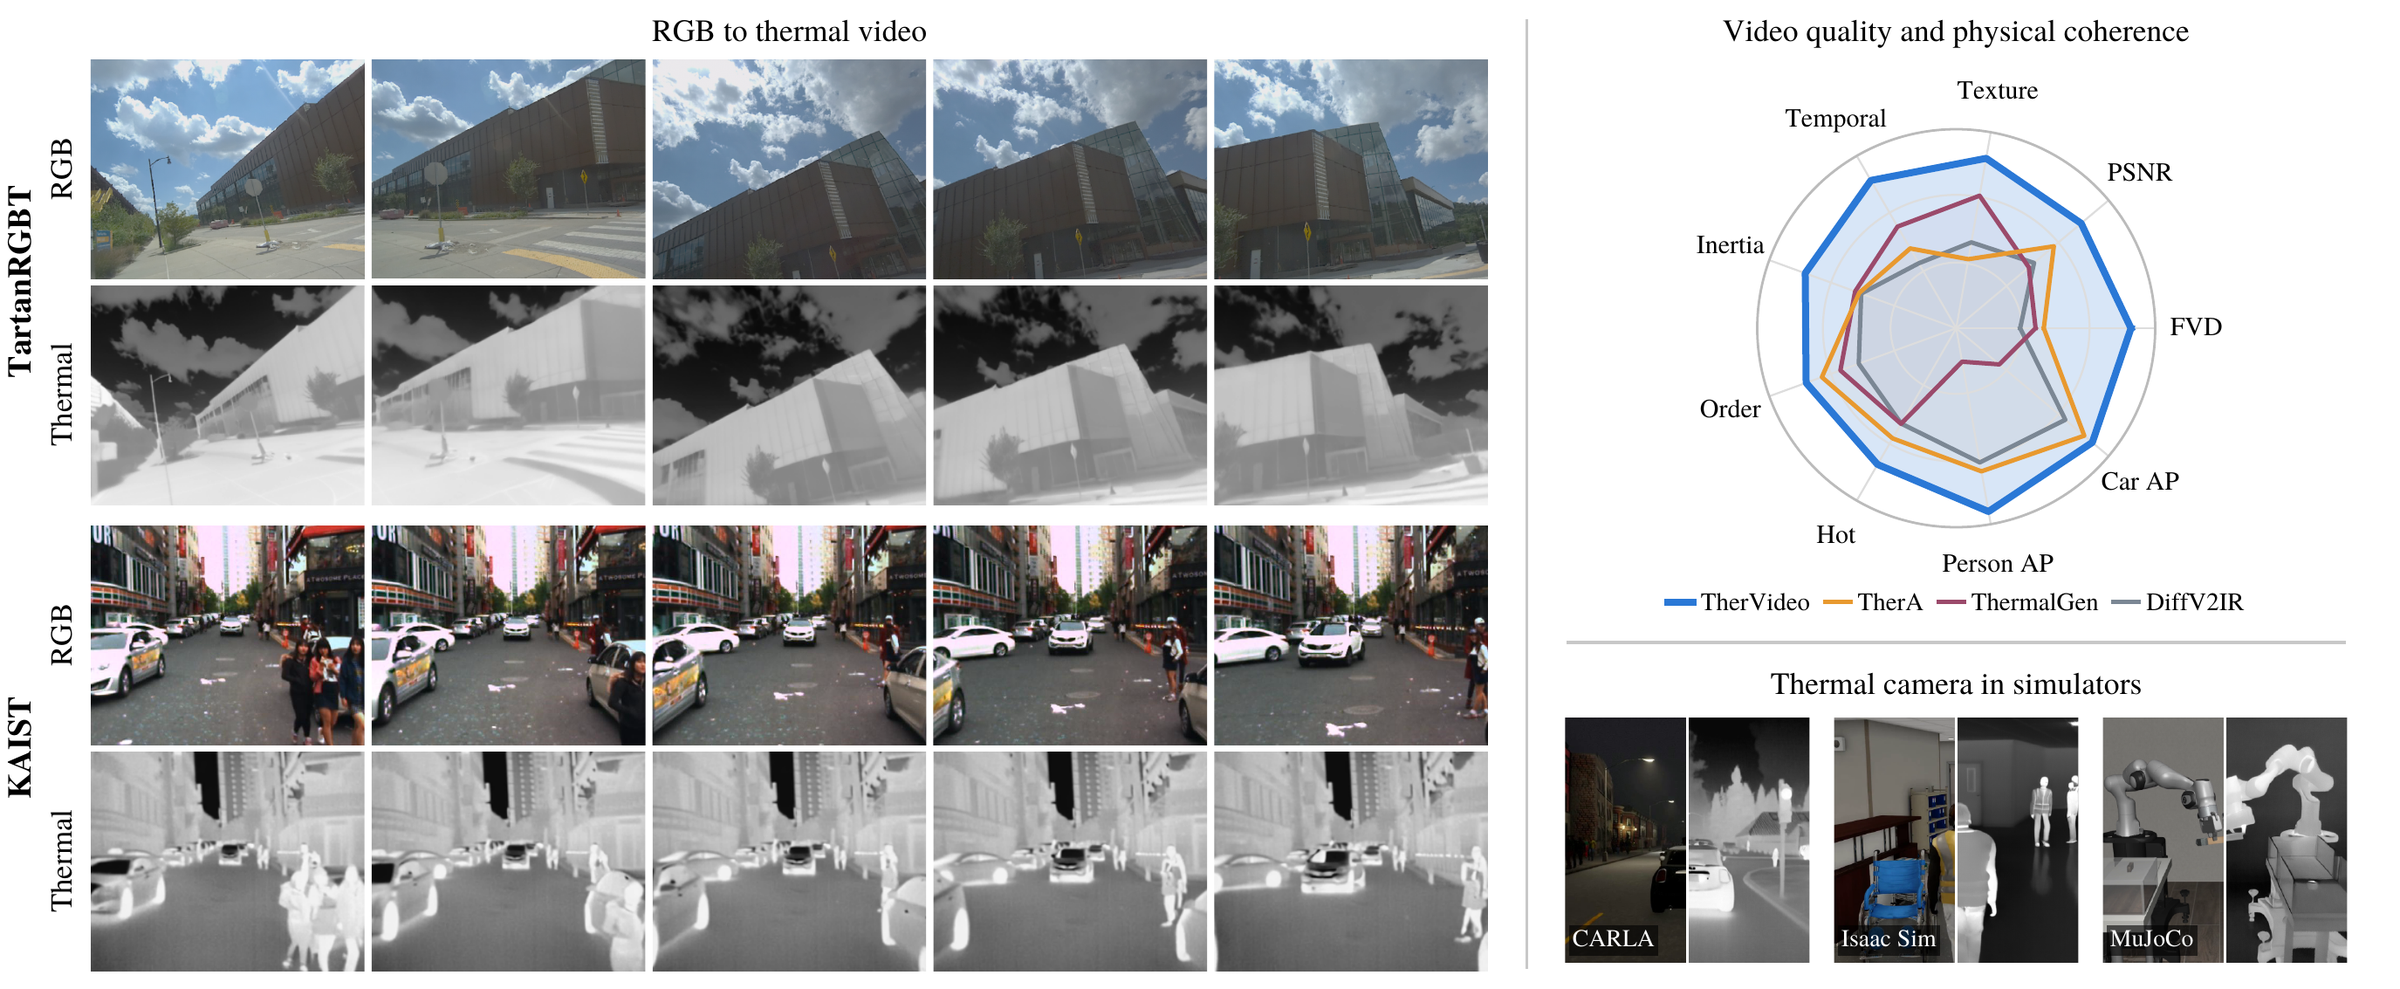
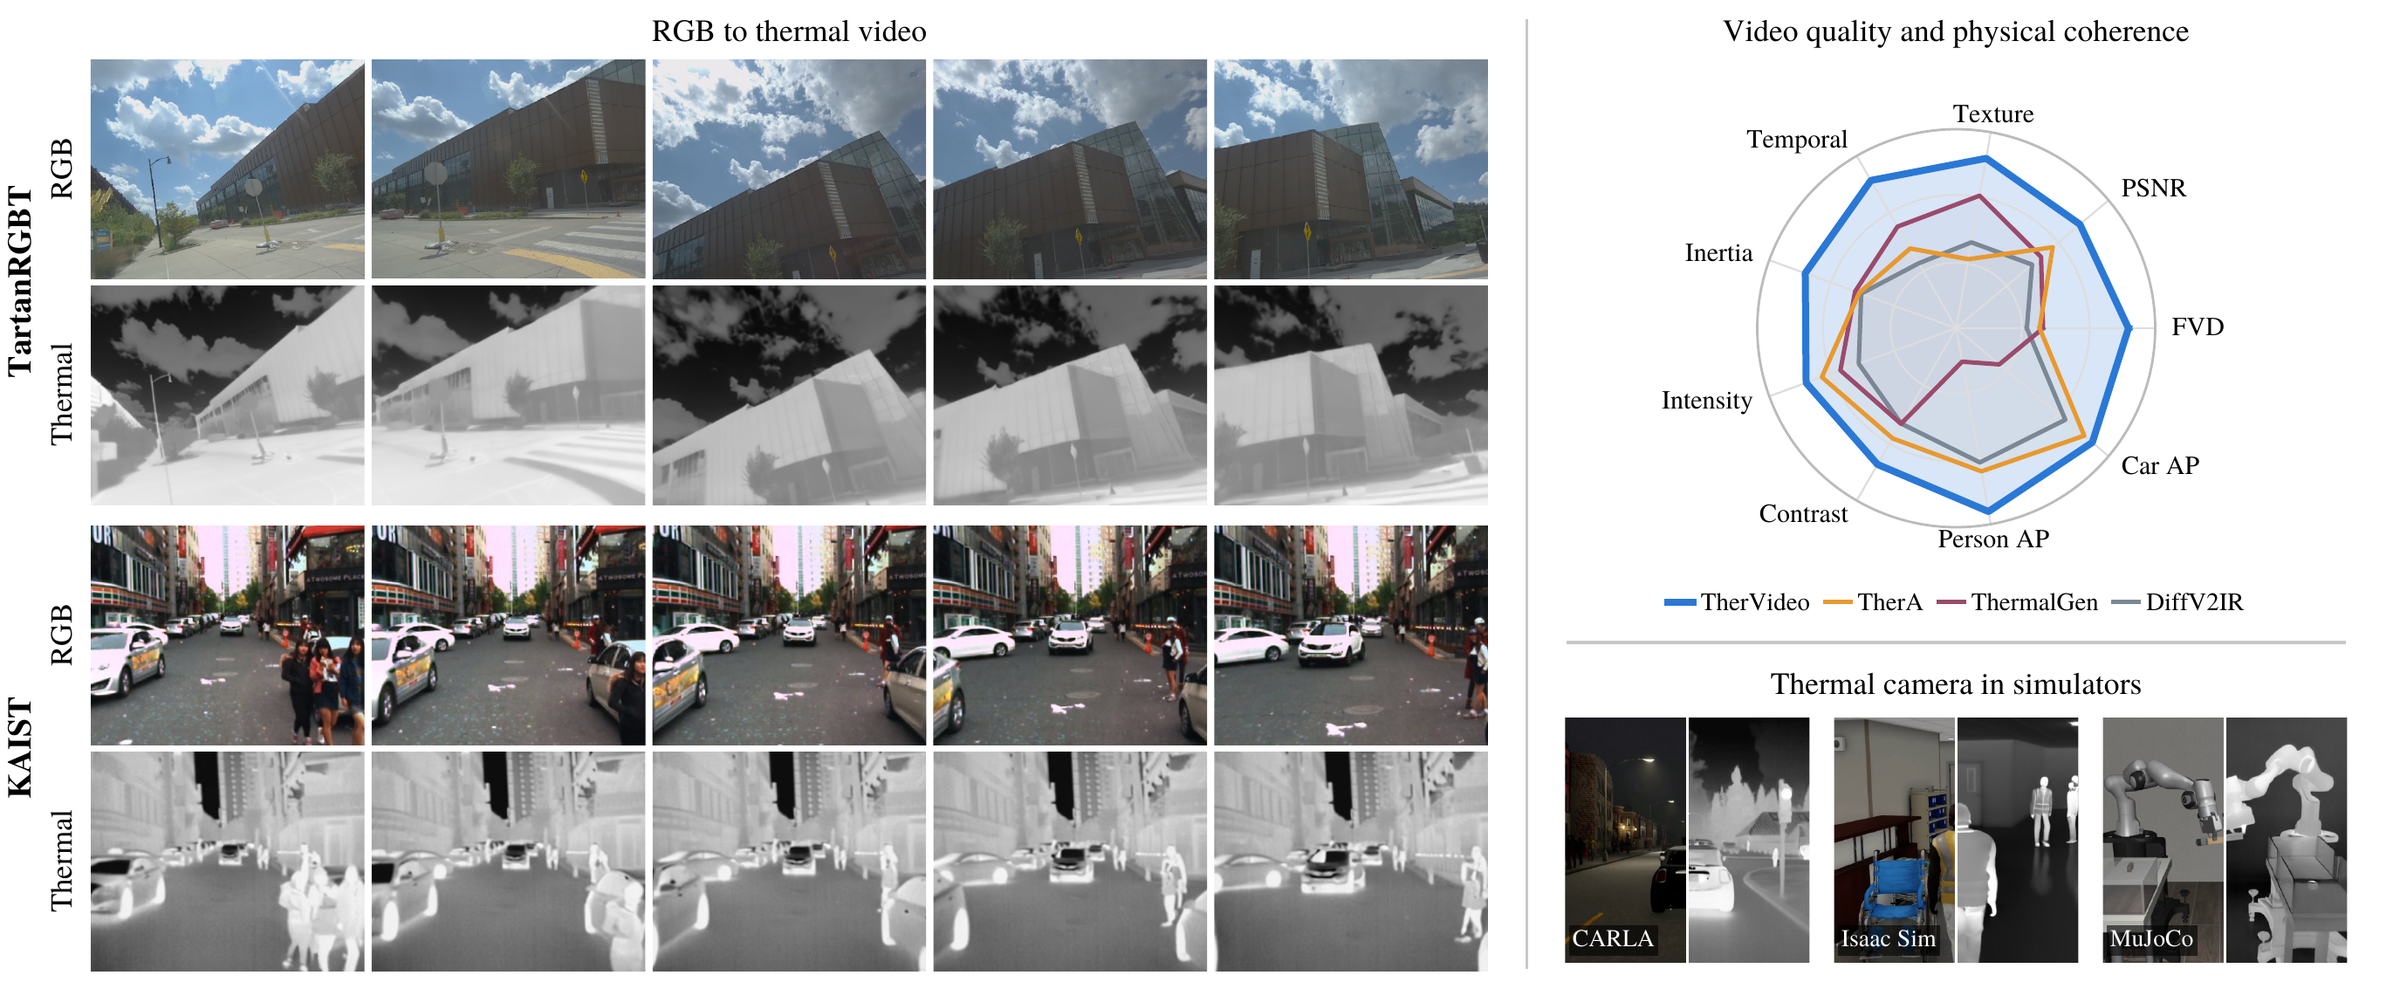
Refresh teaser and abstract from the paper; add README for the repository page

diff --git a/index.html b/index.html
@@ -69,9 +69,8 @@
       thermal behavior and suppressing unsupported texture and illumination responses. Causal autoregression,
       few-step distribution matching distillation, and bounded-context rollout training enable low-latency streaming
       while maintaining long-horizon coherence. TherVideo reduces FVD by 37.2% and 54.2% on TartanRGBT and KAIST
-      datasets, respectively, compared with the strongest adapted baseline on each dataset. Quantized inference
-      achieves 17.6&nbsp;FPS end-to-end at 640&times;512 on a single RTX 5090, supporting real-time sensor
-      simulation.
+      datasets, respectively, compared with the strongest adapted baseline on each dataset. For real-time sensor
+      simulation, TherVideo achieves 17.6&nbsp;FPS end-to-end at 640&times;512 on a single RTX 5090.
     </p>
   </section>
 

diff --git a/README.md b/README.md
@@ -1,0 +1,30 @@
+# Weaving Heat from Color: Thermal Video Synthesis with Physical Coherence
+
+**CVPR 2027 Submission** · Anonymous Authors
+
+Project page: https://thervidanon.github.io/thervideo/
+
+![TherVideo teaser](static/teaser.png)
+
+**Our proposed method synthesizes temporally consistent thermal observations from RGB.**
+Left: RGB-to-thermal video translation on TartanRGBT and KAIST datasets.
+Top right: baseline comparisons, with video quality and physical coherence on log-scaled axes.
+Bottom right: three real-time simulation examples, with rendered RGB (left half) and generated thermal (right half).
+
+## Abstract
+
+Thermal imaging enables perception under limited illumination, but collecting diverse thermal data and constructing
+accurate physical simulators remain costly. Thermal synthesis addresses this data bottleneck by translating abundant RGB
+observations into thermal observations, yet existing frame-wise translation methods often introduce temporal flicker and
+physically unsupported appearance. To this effect, we present **TherVideo**, a framework that jointly models thermal
+appearance across time using a video foundation model. Progressive cross-modal adaptation unifies joint RGB–thermal
+generation and bidirectional translation to learn shared scene dynamics and modality-specific thermal appearance.
+Reinforcement learning via reward-weighted flow matching improves physical coherence by promoting desired thermal
+behavior and suppressing unsupported texture and illumination responses. Causal autoregression, few-step distribution
+matching distillation, and bounded-context rollout training enable low-latency streaming while maintaining long-horizon
+coherence. TherVideo reduces FVD by 37.2% and 54.2% on TartanRGBT and KAIST datasets, respectively, compared with the
+strongest adapted baseline on each dataset. For real-time sensor simulation, TherVideo achieves 17.6 FPS end-to-end at
+640×512 on a single RTX 5090.
+
+---
+Anonymous project page for double-blind review.
